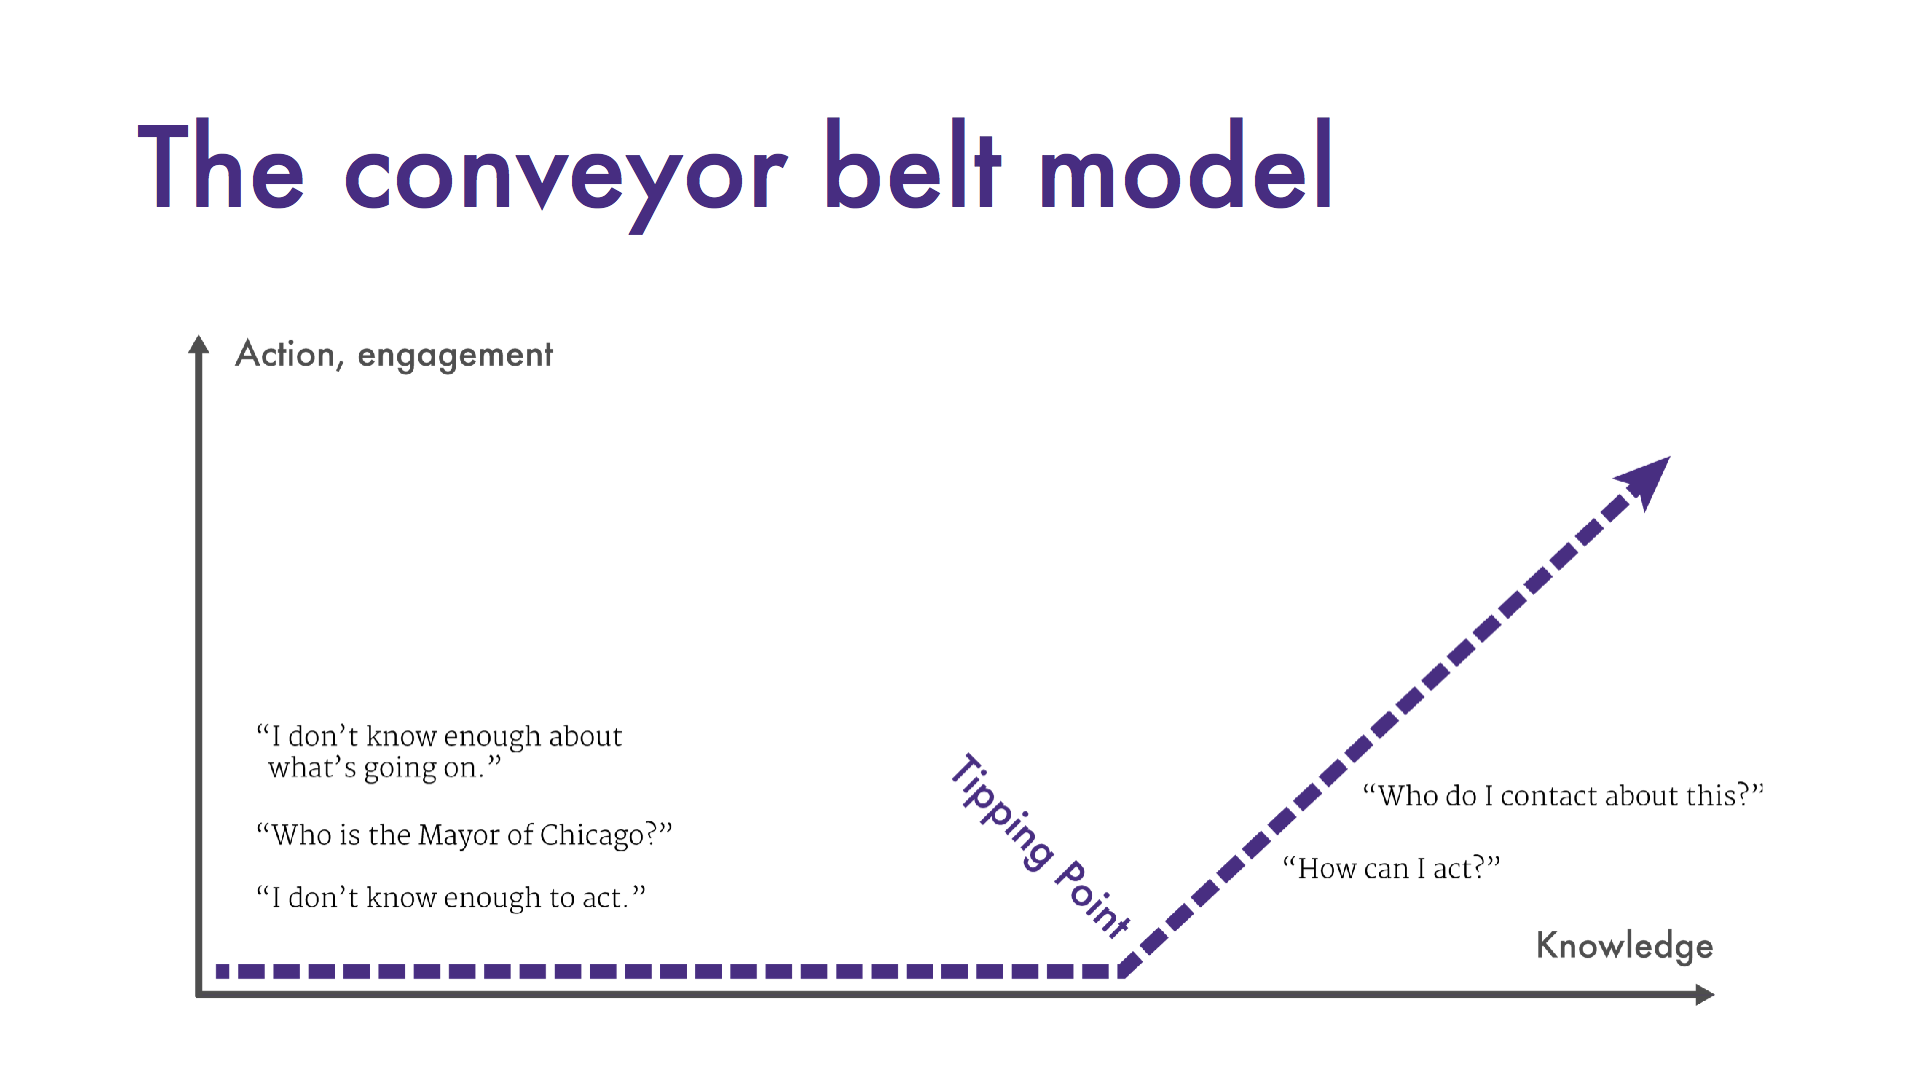
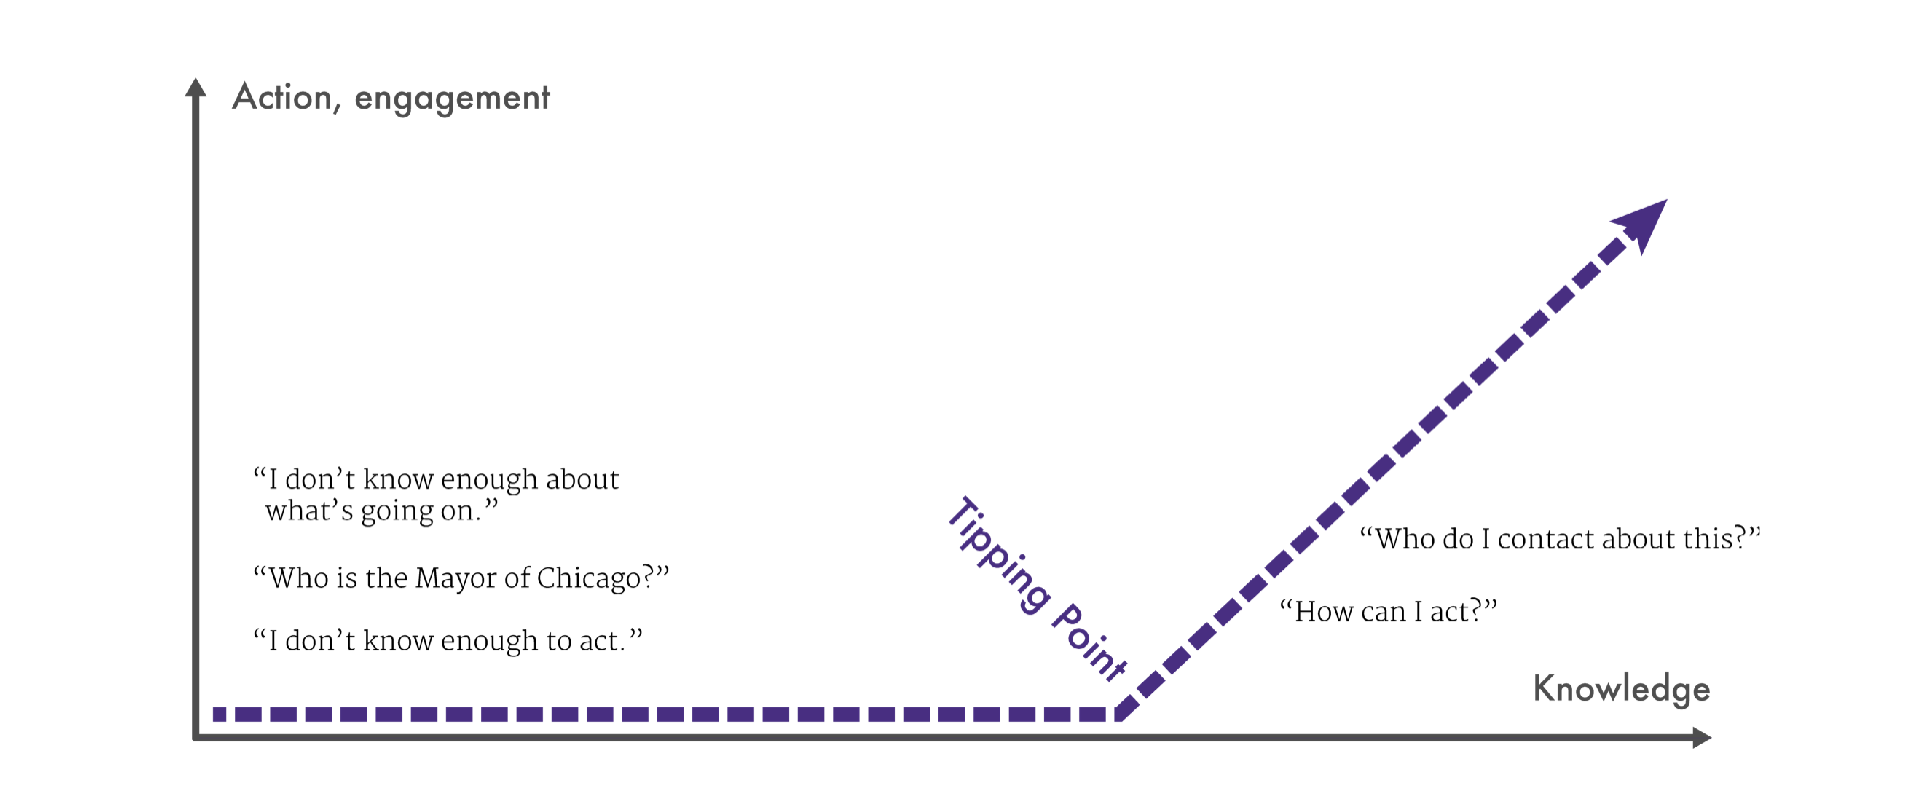
Fixes to TP

diff --git a/tippingpoint.html b/tippingpoint.html
@@ -287,24 +287,18 @@
                         <article class="col-md-2"></article>
                       </div>
 
-                      <div class="row">
-                        <article class="col-md-2"></article>
-                        <article class="col-md-8 text-center add-bottom-quarter">
-                              <p class="orange font2bold">From a coding perspective, headlines can be extracted by:</p>
-                        </article>
-                        <article class="col-md-2"></article>
-                      </div>
 
                       <div class="row">
                         <article class="col-md-6 text-left add-bottom-half">
+                              <p class="orange font2bold">From a coding perspective, headlines can be extracted by:</p>
                               <p class="dark"><span class="dark font2semibold">1.</span> Using news sites that provide RSS (Rich Site Summary) feeds.</p><br/>
                               <p class="dark"><span class="dark font2semibold">2.</span> Selecting news genre (Top-Stories, Movies etc.) in the RSS feeds menu, and viewing the page source.</p><br/>
                               <p class="dark"><span class="dark font2semibold">3.</span> Studying the XML pattern, which contains all the news within that page source.</p><br/>
                               <p class="dark"><span class="dark font2semibold">4.</span> Making calls to the Internet from Tipping Point (or use existing Facebook Messenger standard algorithms) and SAXparsing (or XMLPullParsing) to extract data from page link.</p><br/>
                               <p class="dark"><span class="dark font2semibold">5.</span> Displaying data in Tipping Point as block text box answers from which players can select.</p><br/>
                         </article>
-                        <article class="col-md-6">
-                              <img style="width: 100%;" src="images/tipping_point/tipping_point_question.png"/>
+                        <article class="col-md-6 add-bottom-half">
+                              <img style="width: 50%;" src="images/tipping_point/tipping_point_question.png"/>
                         </article>                        
                       </div>
 
@@ -352,7 +346,7 @@
 
                       <div class="row">
                         <article class="col-md-2"></article>
-                        <article class="col-md-8 text-center add-bottom-half">
+                        <article class="col-md-8 text-left add-bottom-half">
                               <p class="dark"><span class="dark font2semibold">1.</span> 81% of students surveyed have fewer than 3 mobile app games downloaded onto their phones.</p><br/>
                               <p class="dark"><span class="dark font2semibold">2.</span> 50% of students surveyed usually hear about political news first on social media.</p><br/>
                               <p class="dark"><span class="dark font2semibold">3.</span> 97.6% of students surveyed see political news articles on Facebook more than once a week.</p><br/>
@@ -392,15 +386,15 @@
                         <article class="col-md-2"></article>
 
 
-                        <article class="col-md-6 text-center add-bottom-half">
-                              <p class="dark font2semibold">Staying Informed:</p><br/>
+                        <article class="col-md-6 text-left add-bottom-half">
+                              <p class="dark font2bold">Staying Informed:</p><br/>
                               <p class="dark">- Asking questions</p><br/>
                               <p class="dark">- Sharing information</p><br/>
                               <p class="dark">- Voicing opinions</p><br/>
                               <p class="dark">- Taking a stand in debate</p><br/>
                         </article>
-                        <article class="col-md-6 text-center add-bottom-half">
-                              <p class="dark">The stronger form of participation involves attempts to engage others in political thought:</p><br/>
+                        <article class="col-md-6 text-left add-bottom-half">
+                              <p class="dark font2bold">Participating Outwardly:</p><br/>
                               <p class="dark">- Sharing a post</p><br/>
                               <p class="dark">- Voting</p><br/>
                               <p class="dark">- Protesting</p><br/>
@@ -418,7 +412,7 @@
                         <article class="col-md-2"></article>
 
                         <article class="col-md-12 text-center add-bottom-half">
-                              <img style="width: 100%;" src="images/tipping_point/conveyor_belt_model.png"/>
+                              <img style="width: 80%;" src="images/tipping_point/conveyor_belt_model.png"/>
                         </article>
                      </div>
 
